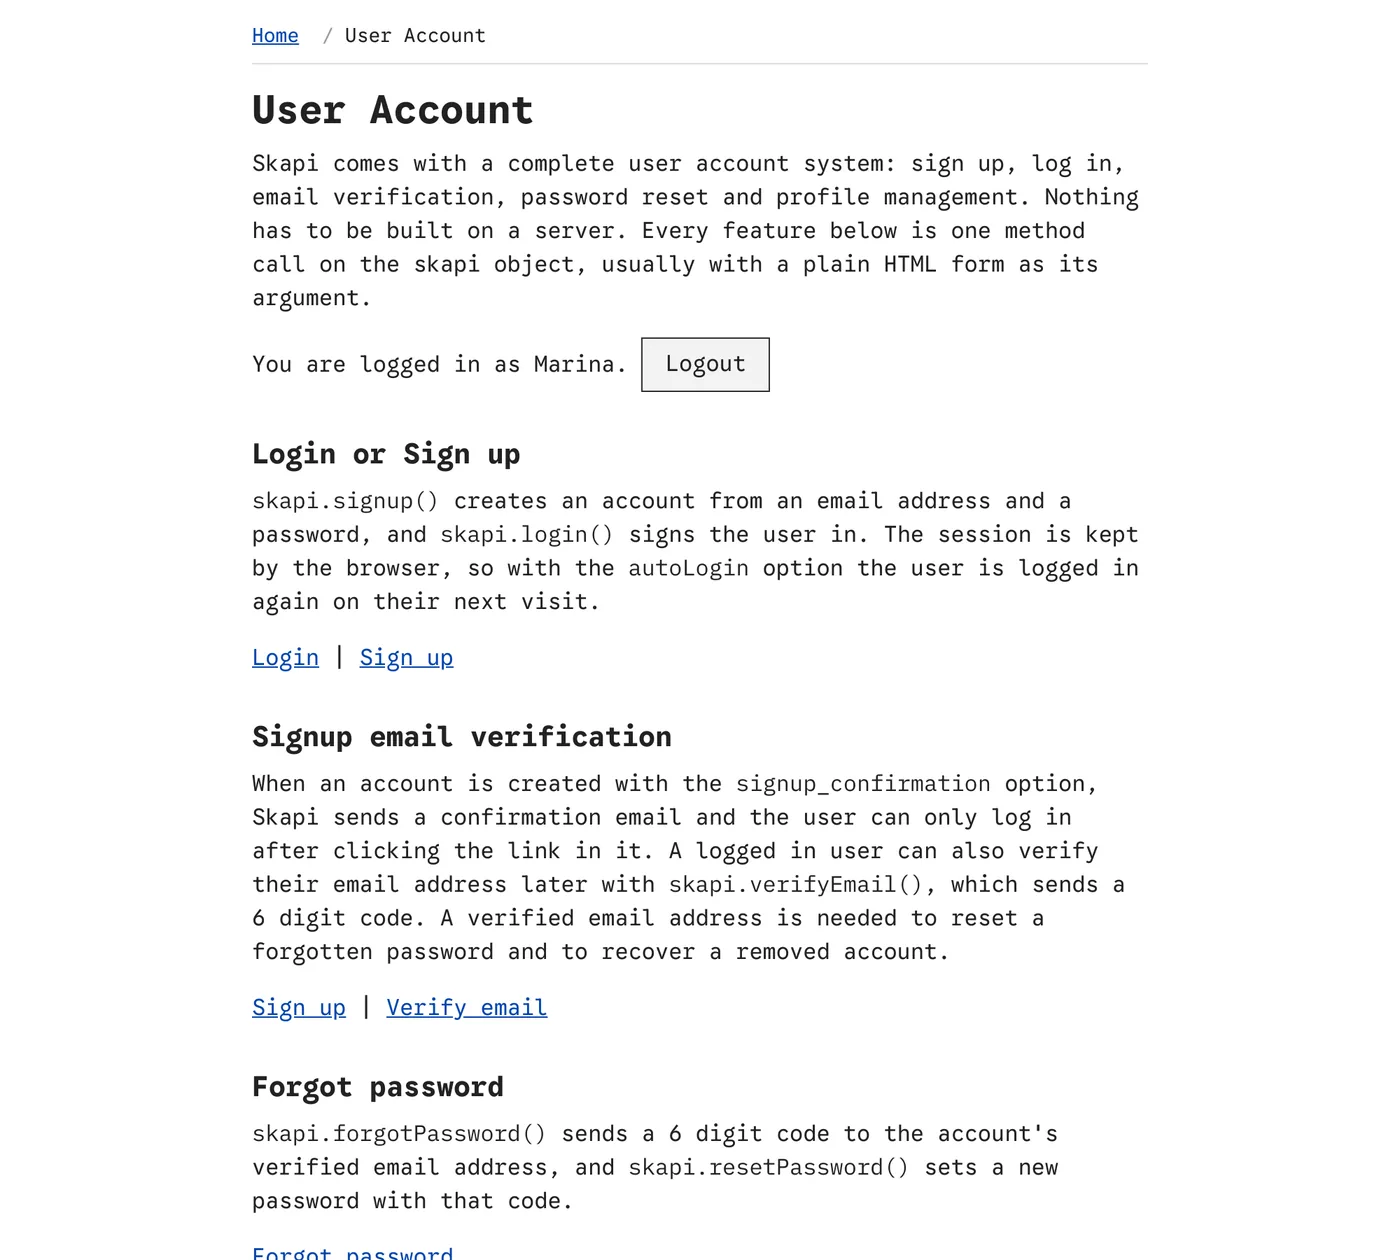
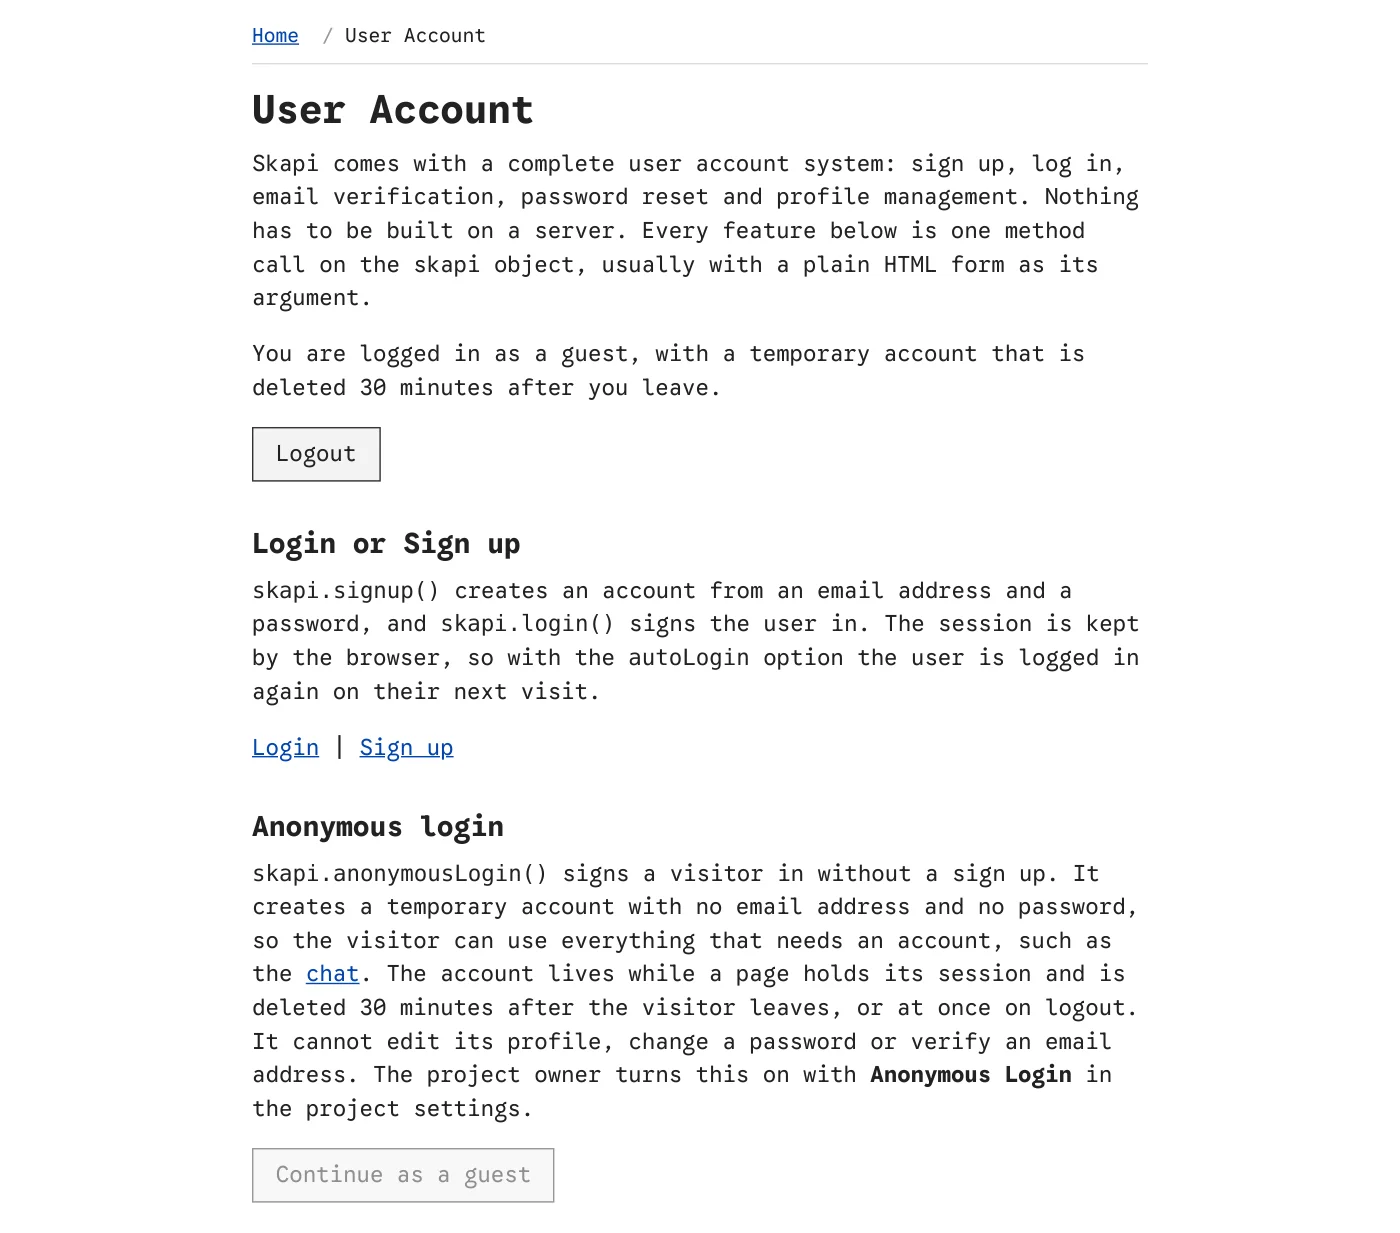
update

diff --git a/.vitepress/theme/FullExampleDemo.vue b/.vitepress/theme/FullExampleDemo.vue
@@ -14,7 +14,7 @@ const props = defineProps<{
   label?: string
 }>()
 
-const BASE = 'https://cdn.broadwayinc.com/temp/v5/'
+const BASE = 'https://cdn.broadwayinc.com/temp/v6/'
 const KEY = 'skapi-docs:project-id'
 const pid = ref('')
 

diff --git a/full-example/user-account.md b/full-example/user-account.md
@@ -6,9 +6,9 @@ The User Account pages demonstrate Skapi's account system end to end. Every step
 
 You need your [project ID](/full-example/intro.md#have-your-project-id-ready) to open the demo.
 
-![The User Account page of the template: a description of each account feature with a link to its page, and the logged-in user's name with a Logout button](/screenshots/template-account.webp)
+![The User Account page of the template: the status line says the visitor is logged in as a guest with a temporary account, a Logout button sits on its own line under it, and below are the Login or Sign up section and the Anonymous login section with its Continue as a guest button](/screenshots/template-account.webp)
 
-*`account.html`, the hub of the account pages, with a user logged in.*
+*`account.html`, the hub of the account pages, with a guest logged in through the **Continue as a guest** button. Logging out deletes the temporary account.*
 
 ![The Login page of the template: an email address field, a password field and a Login button](/screenshots/template-login.webp)
 
@@ -36,4 +36,4 @@ You need your [project ID](/full-example/intro.md#have-your-project-id-ready) to
 
 ## Download
 
-The pages are part of the full template: [skapi-templates.zip](https://cdn.broadwayinc.com/temp/v5/skapi-templates.zip). See [Full Examples](/full-example/intro.md) for how to run it.
+The pages are part of the full template: [skapi-templates.zip](https://cdn.broadwayinc.com/temp/v6/skapi-templates.zip). See [Full Examples](/full-example/intro.md) for how to run it.

diff --git a/full-example/intro.md b/full-example/intro.md
@@ -34,7 +34,7 @@ Pages that need a logged-in user (Database, Realtime Chat, RTC Video Chat, Share
 
 ## Download
 
-Download every page of the template as one ZIP file: [skapi-templates.zip](https://cdn.broadwayinc.com/temp/v5/skapi-templates.zip)
+Download every page of the template as one ZIP file: [skapi-templates.zip](https://cdn.broadwayinc.com/temp/v6/skapi-templates.zip)
 
 Unzip it, then either open a page with `?pid=<Project ID>` in the address or set the project ID in `service.js`. The files are plain HTML and JavaScript, so they run from any web server, or straight from the file system for everything except the video chat and the shared drawing, which need HTTPS or `localhost`.
 

diff --git a/full-example/database.md b/full-example/database.md
@@ -56,4 +56,4 @@ The view is chosen with the URL hash (`#mostliked`, `#mostcomment`, `#myposts`, 
 
 ## Download
 
-The page is part of the full template: [skapi-templates.zip](https://cdn.broadwayinc.com/temp/v5/skapi-templates.zip). See [Full Examples](/full-example/intro.md) for how to run it.
+The page is part of the full template: [skapi-templates.zip](https://cdn.broadwayinc.com/temp/v6/skapi-templates.zip). See [Full Examples](/full-example/intro.md) for how to run it.

diff --git a/full-example/drawing.md b/full-example/drawing.md
@@ -28,4 +28,4 @@ You need your [project ID](/full-example/intro.md#have-your-project-id-ready) to
 
 ## Download
 
-The page is part of the full template: [skapi-templates.zip](https://cdn.broadwayinc.com/temp/v5/skapi-templates.zip). See [Full Examples](/full-example/intro.md) for how to run it.
+The page is part of the full template: [skapi-templates.zip](https://cdn.broadwayinc.com/temp/v6/skapi-templates.zip). See [Full Examples](/full-example/intro.md) for how to run it.

diff --git a/full-example/inquiry.md b/full-example/inquiry.md
@@ -17,4 +17,4 @@ You need your [project ID](/full-example/intro.md#have-your-project-id-ready) to
 
 ## Download
 
-The page is part of the full template: [skapi-templates.zip](https://cdn.broadwayinc.com/temp/v5/skapi-templates.zip). See [Full Examples](/full-example/intro.md) for how to run it.
+The page is part of the full template: [skapi-templates.zip](https://cdn.broadwayinc.com/temp/v6/skapi-templates.zip). See [Full Examples](/full-example/intro.md) for how to run it.

diff --git a/full-example/newsletter.md b/full-example/newsletter.md
@@ -18,4 +18,4 @@ You need your [project ID](/full-example/intro.md#have-your-project-id-ready) to
 
 ## Download
 
-The page is part of the full template: [skapi-templates.zip](https://cdn.broadwayinc.com/temp/v5/skapi-templates.zip). See [Full Examples](/full-example/intro.md) for how to run it.
+The page is part of the full template: [skapi-templates.zip](https://cdn.broadwayinc.com/temp/v6/skapi-templates.zip). See [Full Examples](/full-example/intro.md) for how to run it.

diff --git a/full-example/realtime.md b/full-example/realtime.md
@@ -36,4 +36,4 @@ You need your [project ID](/full-example/intro.md#have-your-project-id-ready) to
 
 ## Download
 
-The page is part of the full template: [skapi-templates.zip](https://cdn.broadwayinc.com/temp/v5/skapi-templates.zip). See [Full Examples](/full-example/intro.md) for how to run it.
+The page is part of the full template: [skapi-templates.zip](https://cdn.broadwayinc.com/temp/v6/skapi-templates.zip). See [Full Examples](/full-example/intro.md) for how to run it.

diff --git a/full-example/webrtc.md b/full-example/webrtc.md
@@ -36,4 +36,4 @@ You need your [project ID](/full-example/intro.md#have-your-project-id-ready) to
 
 ## Download
 
-The page is part of the full template: [skapi-templates.zip](https://cdn.broadwayinc.com/temp/v5/skapi-templates.zip). See [Full Examples](/full-example/intro.md) for how to run it.
+The page is part of the full template: [skapi-templates.zip](https://cdn.broadwayinc.com/temp/v6/skapi-templates.zip). See [Full Examples](/full-example/intro.md) for how to run it.
